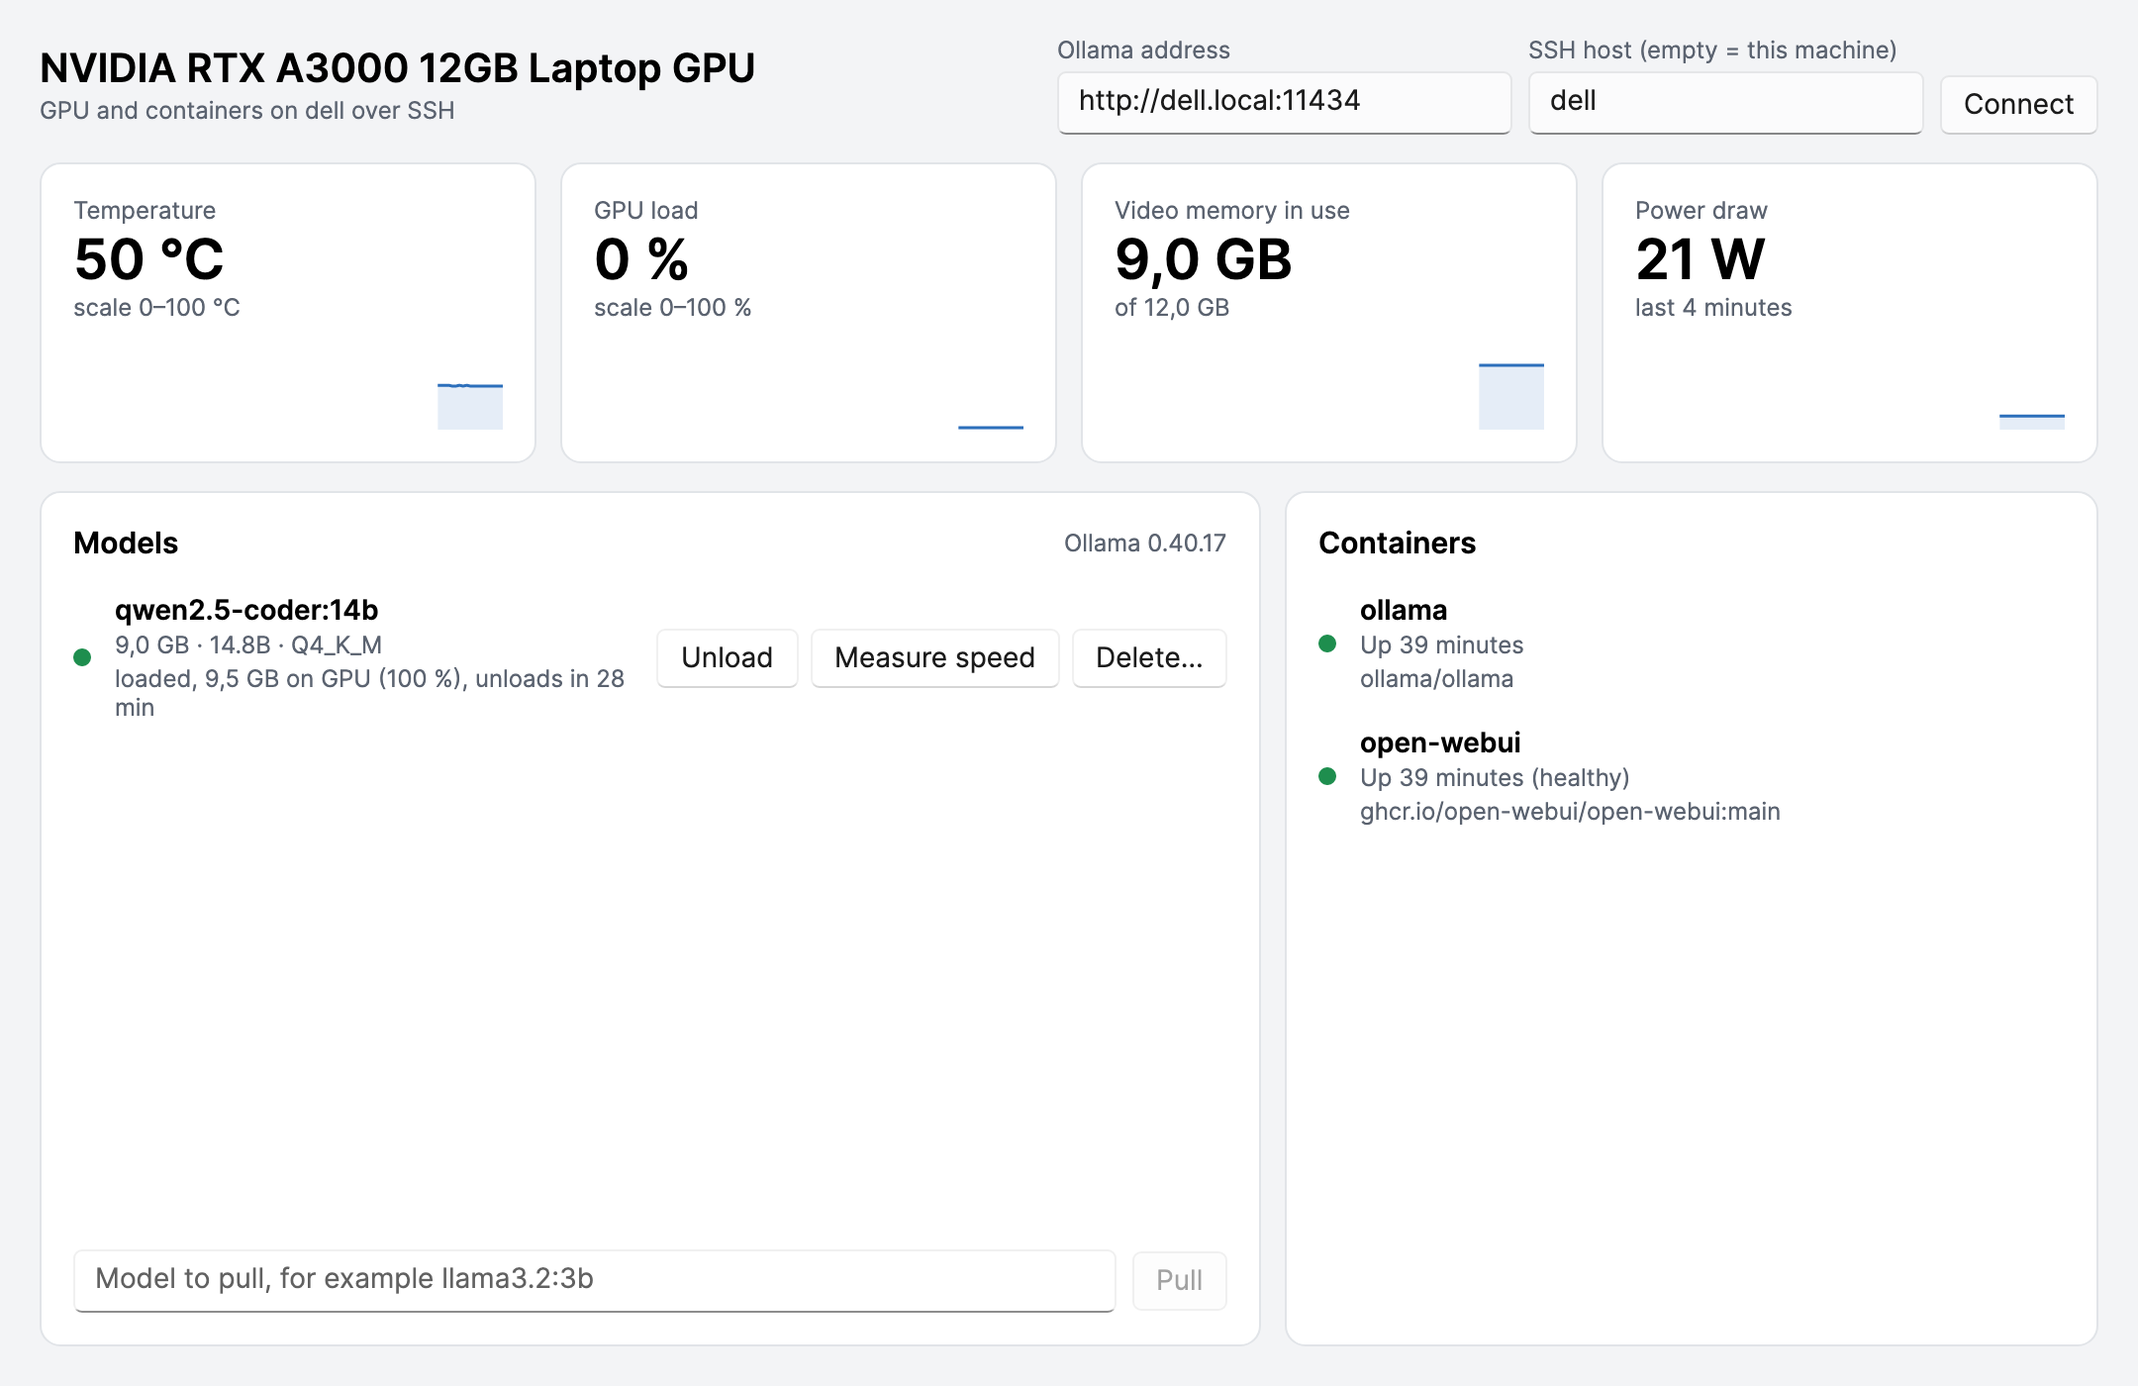
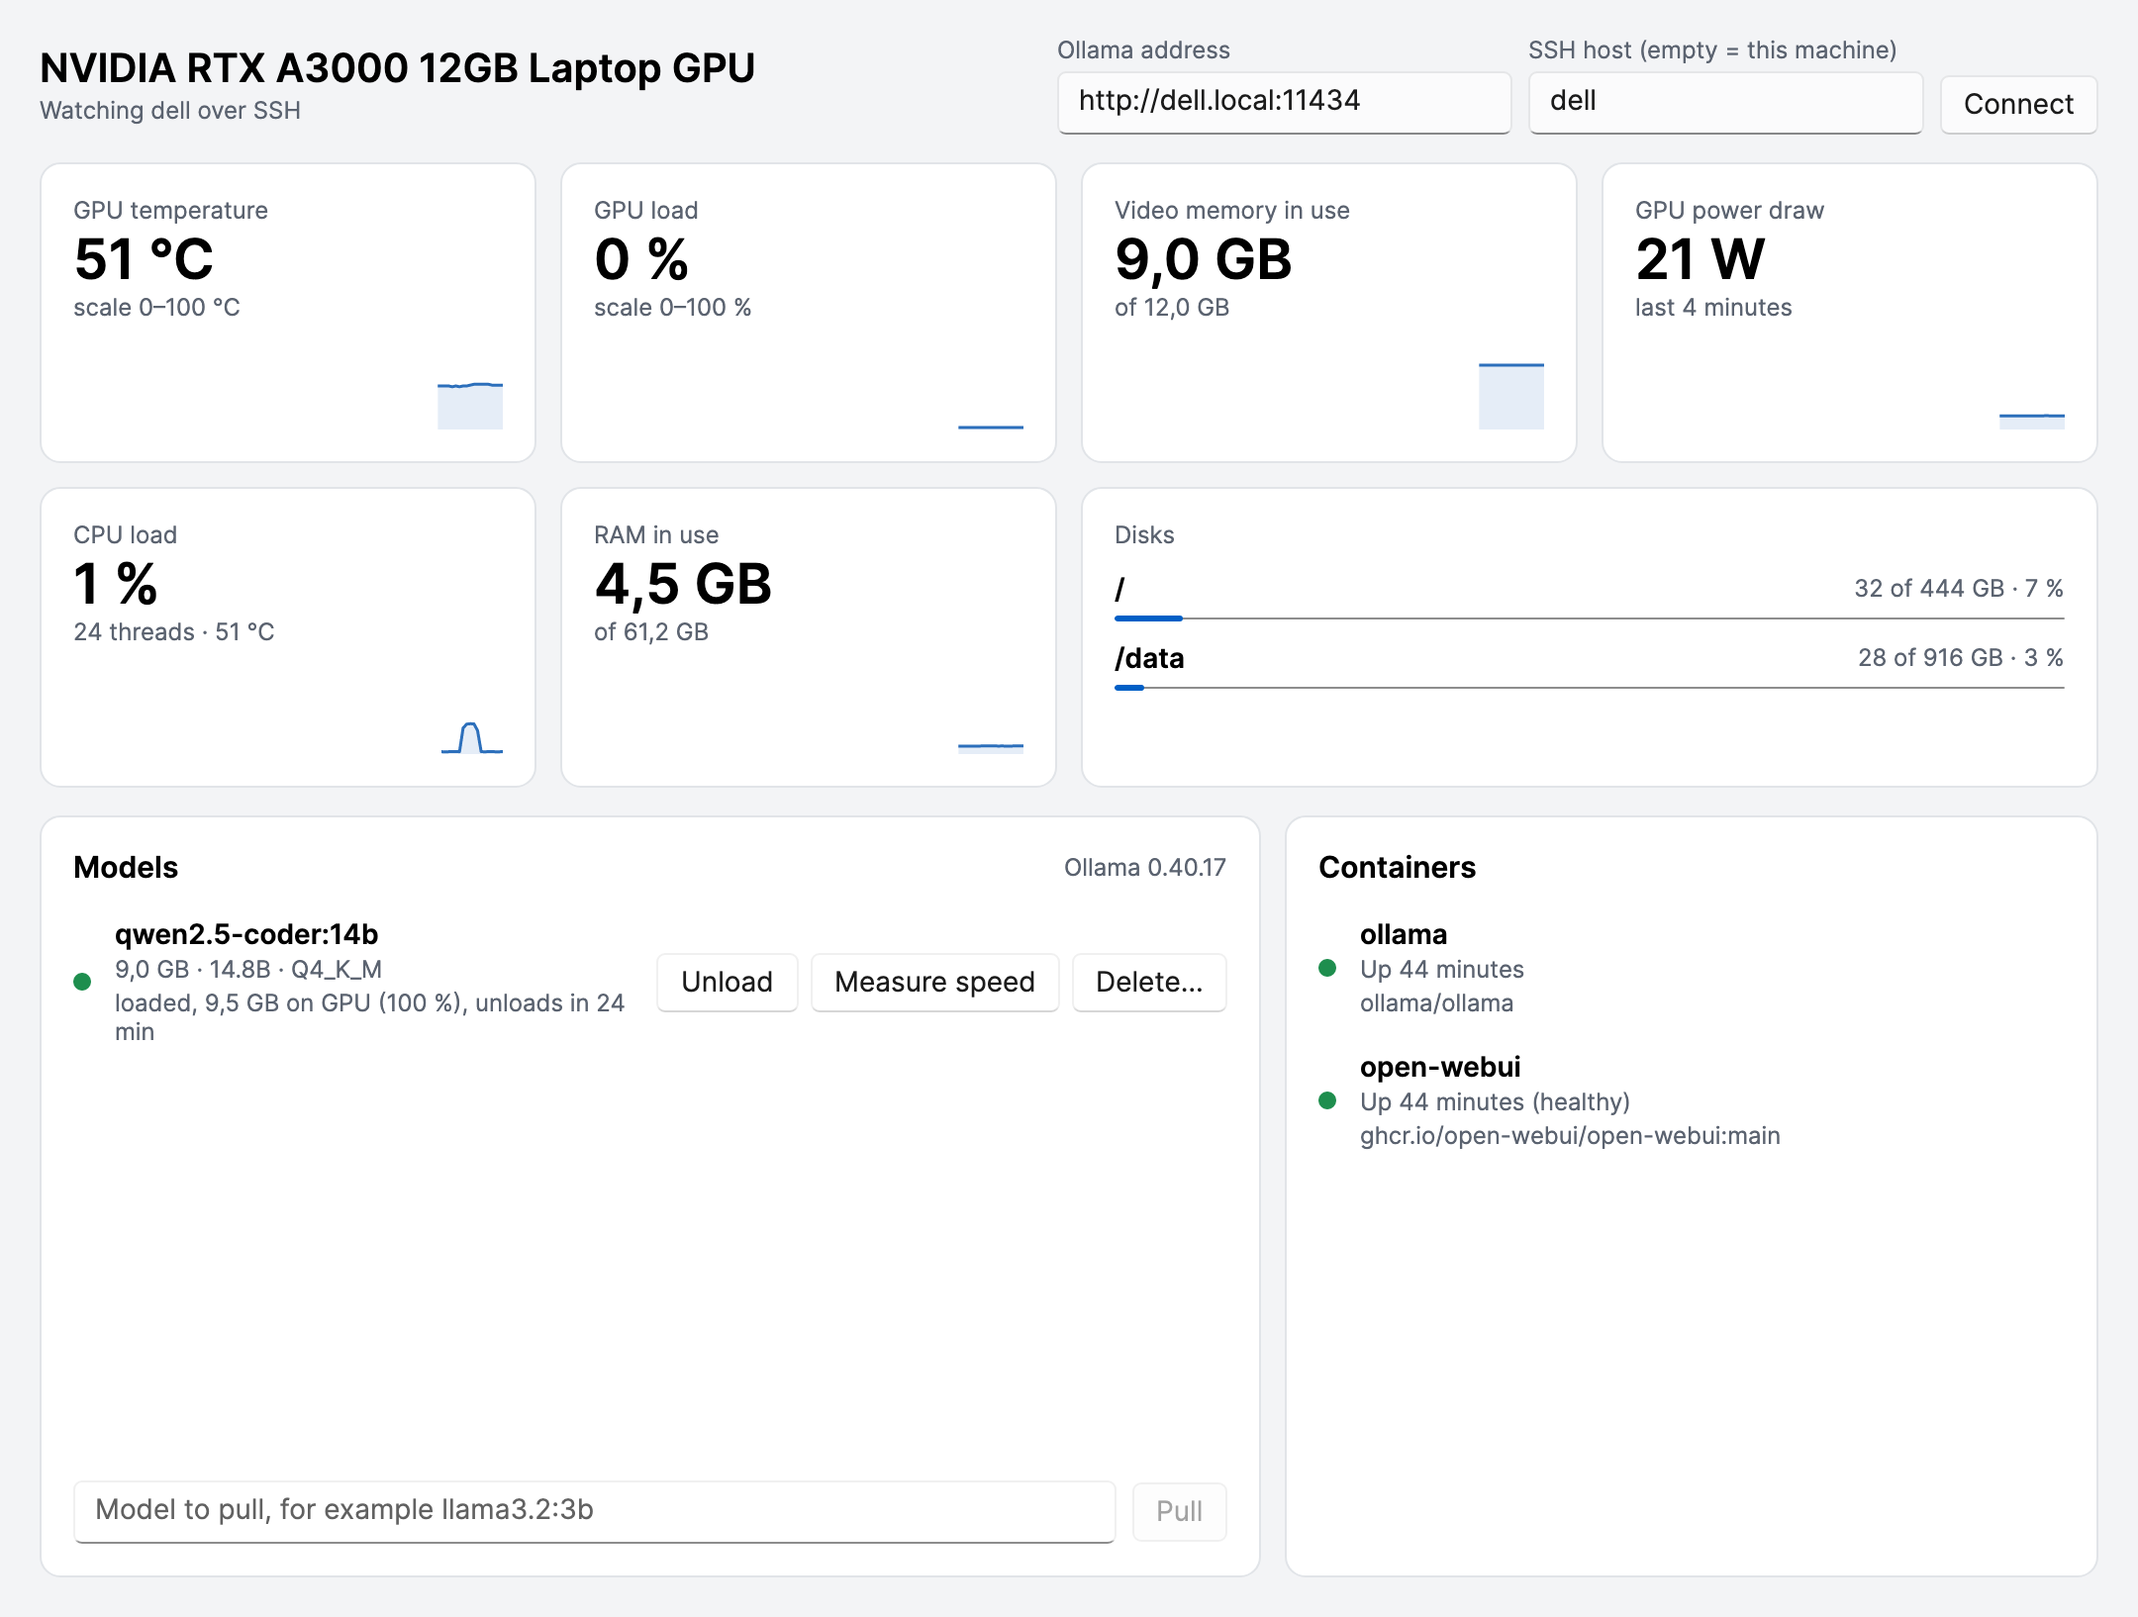
Dashboard: add CPU, RAM and disk tiles
The dashboard showed only the GPU, but CPU heat, memory and disk space
matter just as much on a machine that runs local models. A second row
of tiles reads them from /proc, hwmon and df with one shell script,
locally or over SSH. These readings need a Linux machine.

diff --git a/ViewModels/MainViewModel.cs b/ViewModels/MainViewModel.cs
@@ -28,9 +28,12 @@ public sealed partial class MainViewModel : ObservableObject, IModelActions, IDi
     private readonly List<double> _utilization = [];
     private readonly List<double> _memory = [];
     private readonly List<double> _power = [];
+    private readonly List<double> _cpu = [];
+    private readonly List<double> _ram = [];
 
     private OllamaService? _ollama;
     private GpuService? _gpu;
+    private SystemService? _system;
     private DockerService? _docker;
     private IReadOnlyList<OllamaRunningModel> _running = [];
     private int _connection;
@@ -51,6 +54,7 @@ public sealed partial class MainViewModel : ObservableObject, IModelActions, IDi
 
     public ObservableCollection<ModelRow> Models { get; } = [];
     public ObservableCollection<ContainerRow> Containers { get; } = [];
+    public ObservableCollection<DiskRow> Disks { get; } = [];
 
     // Connection
     [ObservableProperty] private string _ollamaUrl;
@@ -72,6 +76,17 @@ public sealed partial class MainViewModel : ObservableObject, IModelActions, IDi
     [ObservableProperty] private IReadOnlyList<double> _utilizationHistory = [];
     [ObservableProperty] private IReadOnlyList<double> _memoryHistory = [];
     [ObservableProperty] private IReadOnlyList<double> _powerHistory = [];
+
+    // CPU, RAM and disks
+    [ObservableProperty] private string _systemMessage = "";
+    [ObservableProperty] private string _cpuText = "–";
+    [ObservableProperty] private string _cpuDetail = "";
+    [ObservableProperty] private string _ramText = "–";
+    [ObservableProperty] private string _ramDetail = "";
+    [ObservableProperty] private double _ramTotal = 1;
+    [ObservableProperty] private string _disksMessage = "Reading disks…";
+    [ObservableProperty] private IReadOnlyList<double> _cpuHistory = [];
+    [ObservableProperty] private IReadOnlyList<double> _ramHistory = [];
 
     // Ollama and containers
     [ObservableProperty] private string _ollamaStatus = "";
@@ -117,6 +132,7 @@ public sealed partial class MainViewModel : ObservableObject, IModelActions, IDi
         _ollama?.Dispose();
         _ollama = null;
         _gpu = null;
+        _system = null;
         _docker = null;
         _running = [];
         _slowRefreshDue = true;
@@ -125,7 +141,12 @@ public sealed partial class MainViewModel : ObservableObject, IModelActions, IDi
         _utilization.Clear();
         _memory.Clear();
         _power.Clear();
+        _cpu.Clear();
+        _ram.Clear();
         PublishHistory();
+        Disks.Clear();
+        SystemMessage = "";
+        DisksMessage = "Reading disks…";
         Models.Clear();
         Containers.Clear();
         OllamaStatus = "";
@@ -138,15 +159,17 @@ public sealed partial class MainViewModel : ObservableObject, IModelActions, IDi
         {
             var runner = new CommandRunner(SshHost);
             _gpu = new GpuService(runner);
+            _system = new SystemService(runner);
             _docker = new DockerService(runner);
             _ollama = new OllamaService(OllamaUrl);
-            MachineText = runner.IsRemote ? $"GPU and containers on {SshHost.Trim()} over SSH" : "GPU and containers on this machine";
+            MachineText = runner.IsRemote ? $"Watching {SshHost.Trim()} over SSH" : "Watching this machine";
         }
         catch (ArgumentException e)
         {
             ConnectionError = e.Message;
             MachineText = "";
             GpuMessage = "";
+            DisksMessage = "";
             ModelsMessage = "";
             ContainersMessage = "";
         }
@@ -157,7 +180,7 @@ public sealed partial class MainViewModel : ObservableObject, IModelActions, IDi
     {
         while (!_shutdown.IsCancellationRequested)
         {
-            await Task.WhenAll(RefreshGpuAsync(), RefreshRunningAsync());
+            await Task.WhenAll(RefreshGpuAsync(), RefreshSystemAsync(), RefreshRunningAsync());
             if (!await DelayAsync(FastInterval)) return;
         }
     }
@@ -222,6 +245,57 @@ public sealed partial class MainViewModel : ObservableObject, IModelActions, IDi
             if (connection == _connection)
                 GpuMessage = $"GPU: {e.Message}";
         }
+    }
+
+    private async Task RefreshSystemAsync()
+    {
+        if (_system is not { } system) return;
+        var connection = _connection;
+        try
+        {
+            var sample = await system.ReadAsync(_shutdown.Token);
+            if (connection != _connection) return;
+
+            SystemMessage = "";
+            CpuText = sample.CpuPercent is { } load ? $"{load:0} %" : "–";
+            var threads = sample.CpuThreads > 0 ? $"{sample.CpuThreads} threads" : "";
+            var temperature = sample.CpuTemperatureC is { } degrees ? $"{degrees:0} °C" : "";
+            CpuDetail = string.Join(" · ", new[] { threads, temperature }.Where(t => t.Length > 0));
+
+            RamText = $"{sample.MemoryUsedKb / KbPerGb:0.0} GB";
+            RamDetail = $"of {sample.MemoryTotalKb / KbPerGb:0.0} GB";
+            RamTotal = Math.Max(sample.MemoryTotalKb, 1);
+
+            if (sample.CpuPercent is { } percent)
+                Append(_cpu, percent);
+            Append(_ram, sample.MemoryUsedKb);
+            CpuHistory = _cpu.ToArray();
+            RamHistory = _ram.ToArray();
+
+            var rows = sample.Disks.Select(DescribeDisk).ToList();
+            if (!rows.SequenceEqual(Disks))
+            {
+                Disks.Clear();
+                foreach (var row in rows)
+                    Disks.Add(row);
+            }
+
+            DisksMessage = rows.Count == 0 ? "No disks found." : "";
+        }
+        catch (Exception e) when (IsExpected(e))
+        {
+            if (connection != _connection) return;
+            SystemMessage = $"CPU, RAM and disks: {e.Message}";
+            DisksMessage = "";
+        }
+    }
+
+    private const double KbPerGb = 1024 * 1024;
+
+    private static DiskRow DescribeDisk(DiskUsage disk)
+    {
+        var percent = disk.CapacityKb > 0 ? 100.0 * disk.UsedKb / disk.CapacityKb : 0;
+        return new DiskRow(disk.Mount, $"{disk.UsedKb / KbPerGb:0} of {disk.CapacityKb / KbPerGb:0} GB · {percent:0} %", percent);
     }
 
     private async Task RefreshRunningAsync()
@@ -480,6 +554,8 @@ public sealed partial class MainViewModel : ObservableObject, IModelActions, IDi
         UtilizationHistory = _utilization.ToArray();
         MemoryHistory = _memory.ToArray();
         PowerHistory = _power.ToArray();
+        CpuHistory = _cpu.ToArray();
+        RamHistory = _ram.ToArray();
     }
 
     private static bool IsExpected(Exception e)

diff --git a/Services/SystemService.cs b/Services/SystemService.cs
@@ -1,0 +1,120 @@
+using System;
+using System.Collections.Generic;
+using System.Globalization;
+using System.Linq;
+using System.Threading;
+using System.Threading.Tasks;
+using AiBoxDashboard.Models;
+
+namespace AiBoxDashboard.Services;
+
+/// <summary>
+/// Reads CPU, memory and disk figures from a Linux machine through one small shell script.
+/// CPU load is the share of busy time between two readings, so the first reading has none.
+/// </summary>
+public sealed class SystemService(CommandRunner runner)
+{
+    // Each section starts with a "#name" line so the parser does not depend on line counts.
+    private const string Script = """
+        echo '#stat'; head -n 1 /proc/stat 2>/dev/null
+        echo '#threads'; grep -c '^processor' /proc/cpuinfo 2>/dev/null
+        echo '#mem'; grep -E '^(MemTotal|MemAvailable):' /proc/meminfo 2>/dev/null
+        echo '#temp'
+        for d in /sys/class/hwmon/hwmon*; do
+          case "$(cat "$d/name" 2>/dev/null)" in
+            coretemp|k10temp|zenpower) cat "$d/temp1_input" 2>/dev/null; break;;
+          esac
+        done
+        echo '#df'; df -kP 2>/dev/null
+        """;
+
+    private (long Busy, long Total)? _previousCpu;
+
+    public async Task<SystemSample> ReadAsync(CancellationToken ct)
+    {
+        var output = await runner.RunAsync("sh", ["-c", Script], TimeSpan.FromSeconds(8), ct);
+        var reading = Parse(output);
+        if (reading.Cpu is null && reading.MemoryTotalKb == 0)
+            throw new InvalidOperationException("CPU, RAM and disk readings need a Linux machine.");
+
+        double? cpuPercent = null;
+        if (reading.Cpu is { } now && _previousCpu is { } before && now.Total > before.Total)
+            cpuPercent = Math.Clamp(100.0 * (now.Busy - before.Busy) / (now.Total - before.Total), 0, 100);
+        _previousCpu = reading.Cpu;
+
+        return new SystemSample(
+            cpuPercent,
+            reading.CpuTemperatureC,
+            reading.Threads,
+            reading.MemoryTotalKb,
+            Math.Max(reading.MemoryTotalKb - reading.MemoryAvailableKb, 0),
+            reading.Disks);
+    }
+
+    public sealed record RawReading(
+        (long Busy, long Total)? Cpu,
+        int Threads,
+        long MemoryTotalKb,
+        long MemoryAvailableKb,
+        double? CpuTemperatureC,
+        IReadOnlyList<DiskUsage> Disks);
+
+    public static RawReading Parse(string output)
+    {
+        (long Busy, long Total)? cpu = null;
+        var threads = 0;
+        long memoryTotal = 0, memoryAvailable = 0;
+        double? temperature = null;
+        var disks = new List<DiskUsage>();
+        var section = "";
+
+        foreach (var line in output.Split('\n', StringSplitOptions.RemoveEmptyEntries | StringSplitOptions.TrimEntries))
+        {
+            if (line.StartsWith('#'))
+            {
+                section = line;
+                continue;
+            }
+
+            var fields = line.Split(' ', StringSplitOptions.RemoveEmptyEntries);
+            switch (section)
+            {
+                case "#stat" when fields.Length >= 9 && fields[0] == "cpu":
+                    // user nice system idle iowait irq softirq steal
+                    var times = fields.Skip(1).Take(8).Select(Long).ToArray();
+                    var idle = times[3] + times[4];
+                    cpu = (times.Sum() - idle, times.Sum());
+                    break;
+                case "#threads":
+                    threads = (int)Long(fields[0]);
+                    break;
+                case "#mem" when fields.Length >= 2 && fields[0] == "MemTotal:":
+                    memoryTotal = Long(fields[1]);
+                    break;
+                case "#mem" when fields.Length >= 2 && fields[0] == "MemAvailable:":
+                    memoryAvailable = Long(fields[1]);
+                    break;
+                case "#temp" when Long(fields[0]) > 0:
+                    temperature = Long(fields[0]) / 1000.0; // millidegrees
+                    break;
+                case "#df" when fields.Length >= 6 && IsRealDisk(fields[0], fields[5]):
+                    if (disks.All(d => d.Device != fields[0]))
+                        disks.Add(new DiskUsage(fields[0], string.Join(' ', fields.Skip(5)), Long(fields[2]), Long(fields[2]) + Long(fields[3])));
+                    break;
+            }
+        }
+
+        return new RawReading(cpu, threads, memoryTotal, memoryAvailable, temperature,
+            disks.OrderBy(d => d.Mount, StringComparer.Ordinal).ToList());
+    }
+
+    // Leaves out memory-backed filesystems, snap images and the small boot partitions.
+    private static bool IsRealDisk(string device, string mount)
+        => device.StartsWith("/dev/", StringComparison.Ordinal)
+           && !device.StartsWith("/dev/loop", StringComparison.Ordinal)
+           && !mount.StartsWith("/boot", StringComparison.Ordinal)
+           && !mount.StartsWith("/snap", StringComparison.Ordinal);
+
+    private static long Long(string text)
+        => long.TryParse(text, NumberStyles.Integer, CultureInfo.InvariantCulture, out var value) ? value : 0;
+}

diff --git a/Models/Samples.cs b/Models/Samples.cs
@@ -13,6 +13,18 @@ public sealed record GpuSample(
     double MemoryTotalMiB,
     double? PowerW);
 
+/// <summary>One reading of the machine itself. Sizes are in kibibytes, as Linux reports them.</summary>
+public sealed record SystemSample(
+    double? CpuPercent,
+    double? CpuTemperatureC,
+    int CpuThreads,
+    long MemoryTotalKb,
+    long MemoryUsedKb,
+    IReadOnlyList<DiskUsage> Disks);
+
+/// <summary>Space on one mounted disk. Capacity counts only what ordinary users can fill, as <c>df</c> does.</summary>
+public sealed record DiskUsage(string Device, string Mount, long UsedKb, long CapacityKb);
+
 public sealed record ContainerInfo(string Name, string Image, string State, string Status);
 
 public sealed class OllamaVersion

diff --git a/ViewModels/ContainerRow.cs b/ViewModels/ContainerRow.cs
@@ -1,3 +1,6 @@
 namespace AiBoxDashboard.ViewModels;
 
 public sealed record ContainerRow(string Name, string Image, string Status, bool IsRunning);
+
+/// <summary>One disk in the Disks tile. <see cref="Percent"/> is 0–100.</summary>
+public sealed record DiskRow(string Mount, string UsageText, double Percent);

diff --git a/README.md b/README.md
@@ -11,6 +11,7 @@ Built with .NET 11 and [Avalonia](https://avaloniaui.net), so the same code runs
 ## What it shows
 
 - **GPU**: temperature, load, video memory in use and power draw, each with a chart of the last four minutes.
+- **CPU, RAM and disks**: CPU load and temperature, memory in use, and how full each disk is. These need a Linux machine.
 - **Models**: every model Ollama has installed, whether it is loaded, how much of it sits on the GPU, and when it unloads.
 - **Model actions**: load a model into memory or unload it, pull a new model with a progress bar, and delete one from disk
   after a confirmation.
@@ -21,7 +22,7 @@ Built with .NET 11 and [Avalonia](https://avaloniaui.net), so the same code runs
 
 - .NET 11 SDK to build and run.
 - On the machine being watched: an NVIDIA GPU with `nvidia-smi`, [Ollama](https://ollama.com), and optionally Docker.
-- To watch another machine: key-based SSH access to it (the app runs `ssh <host> nvidia-smi` and `ssh <host> docker ps`;
+- To watch another machine: key-based SSH access to it (the app runs `nvidia-smi`, `docker ps` and a small read-only shell script there through `ssh <host>`;
   it never asks for or stores a password) and its Ollama port reachable over the network.
 
 ## Run
@@ -45,6 +46,7 @@ The same two settings are at the top of the window. Press **Connect** to apply a
 | Data | Source |
 |---|---|
 | GPU readings | `nvidia-smi --query-gpu=...`, every 2 seconds |
+| CPU, RAM and disks | `/proc/stat`, `/proc/meminfo`, `hwmon` and `df`, every 2 seconds |
 | Models and loaded state | Ollama HTTP API (`/api/tags`, `/api/ps`) |
 | Load and unload | Ollama `/api/generate` without a prompt (`keep_alive: 0` to unload) |
 | Pull and delete | Ollama `/api/pull` (streamed progress) and `/api/delete` |
